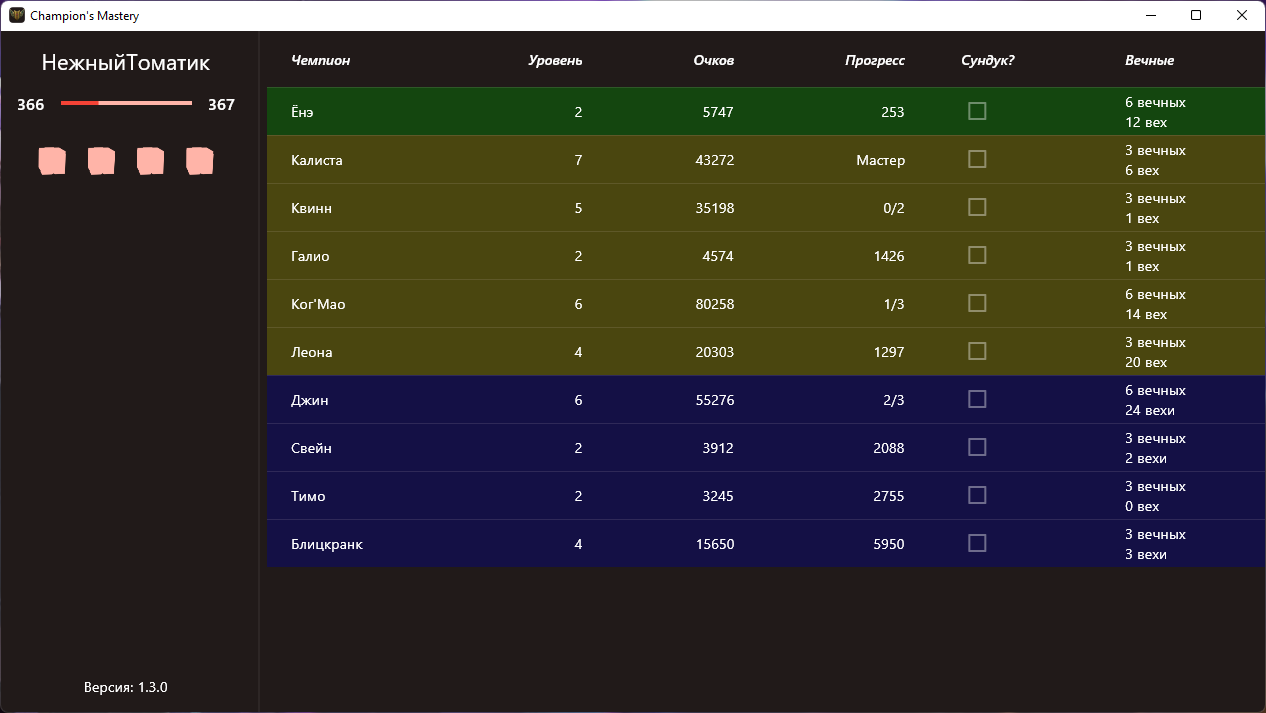
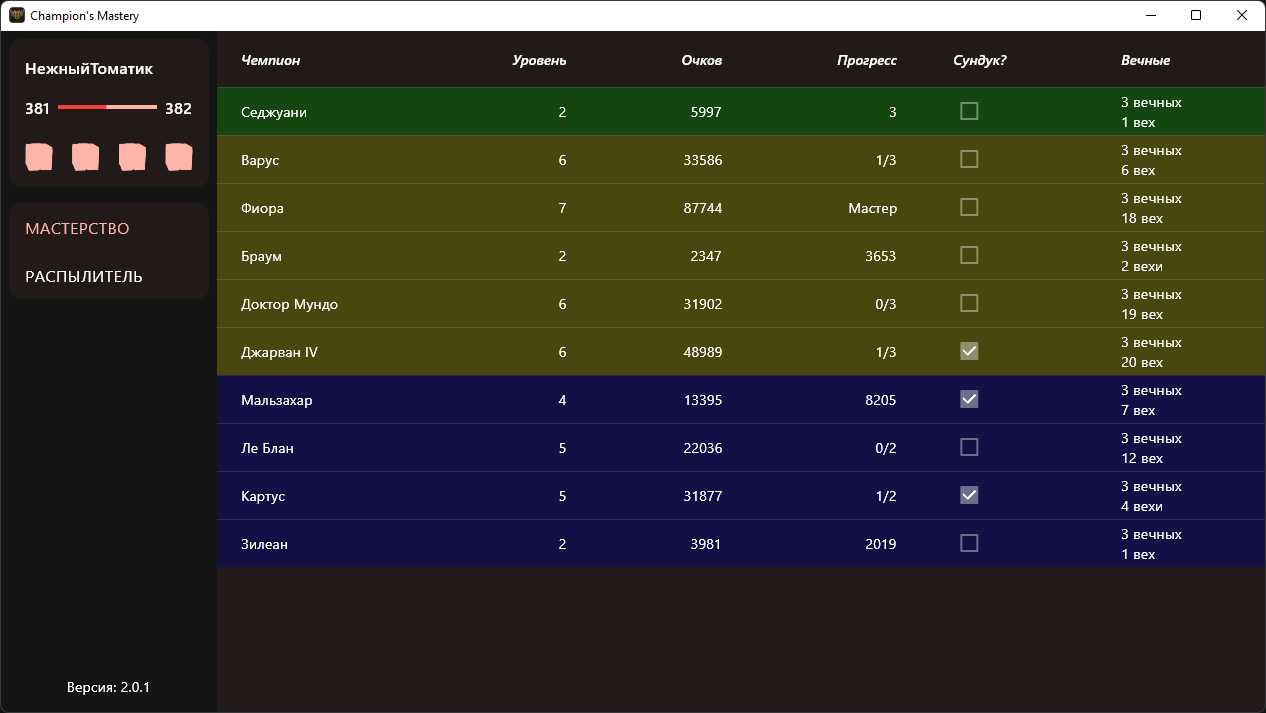
updated readme and screenshots

diff --git a/README.md b/README.md
@@ -5,11 +5,14 @@
 #### Во время выбора в АРАМ таблица фильтруется до доступных
 ![ARAM Pick](docs/screenshots/aram.png)
 
+![Disenchater](docs/screenshots/disenchanter.png)
+
 ## Что может?
 
 * Показывает уровень призывателя
 * Показывает доступные для получения сундуки
 * Показывает информацию по чемпионам (Мастерство, доступность сундука и вечные)
+* Распылять выбранные осколки чемпионов
 
 ## Как начать?
 
